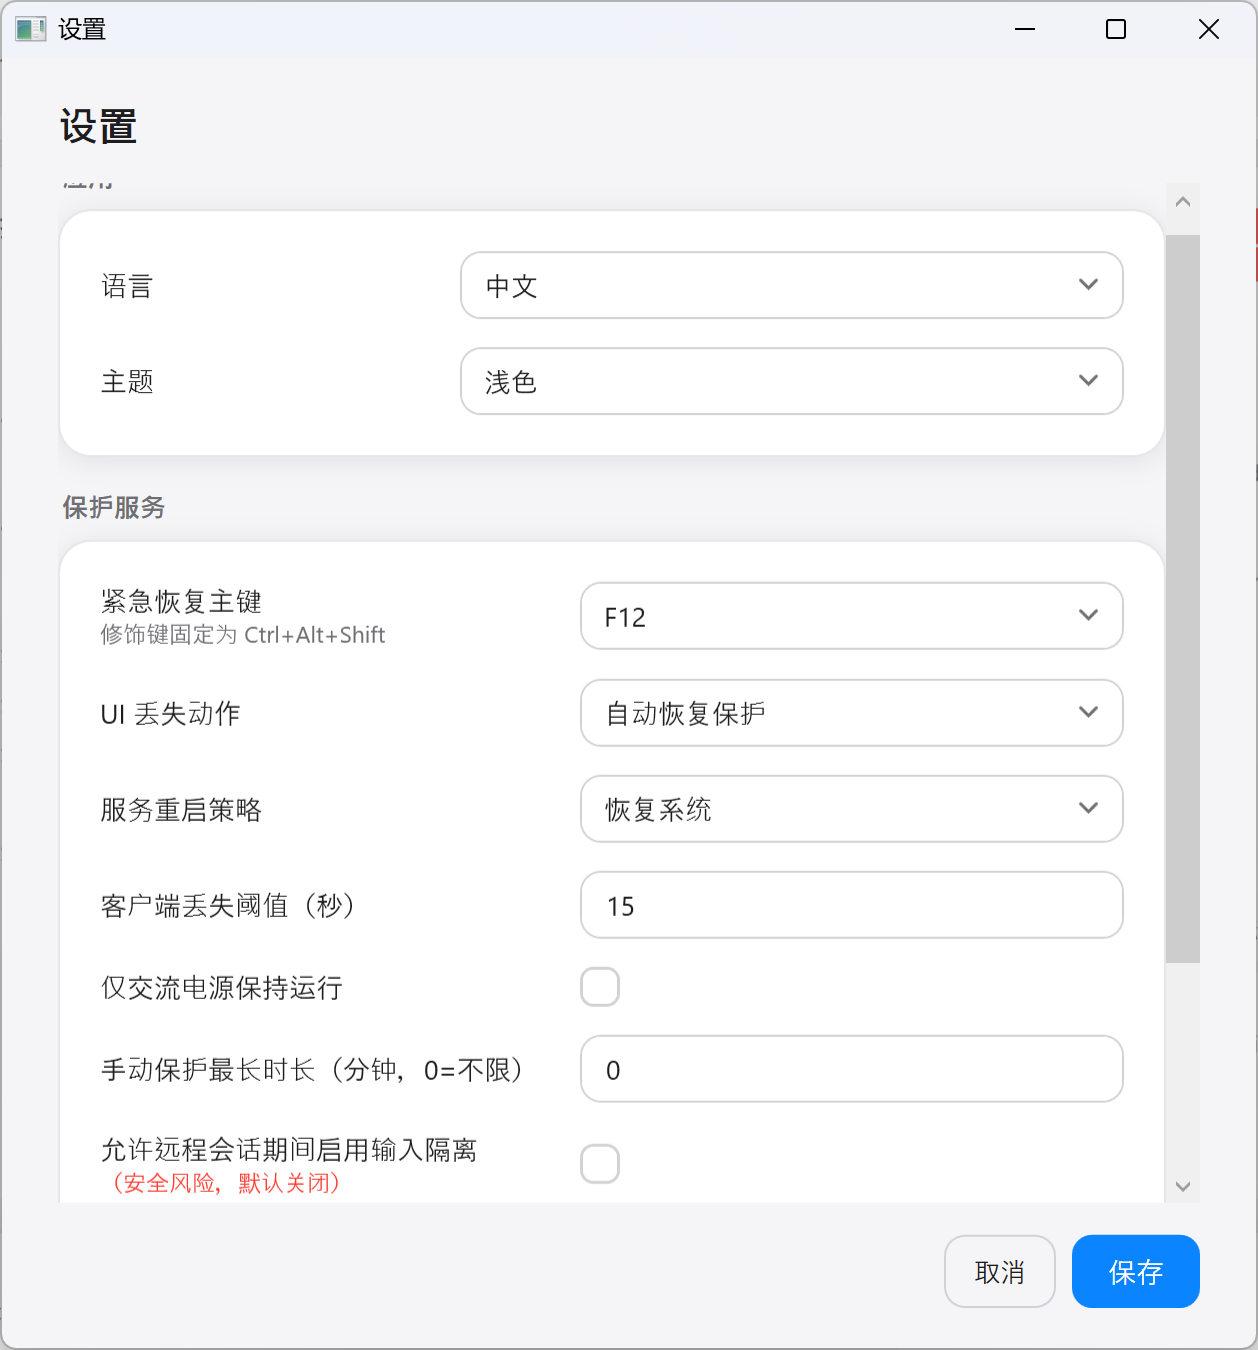
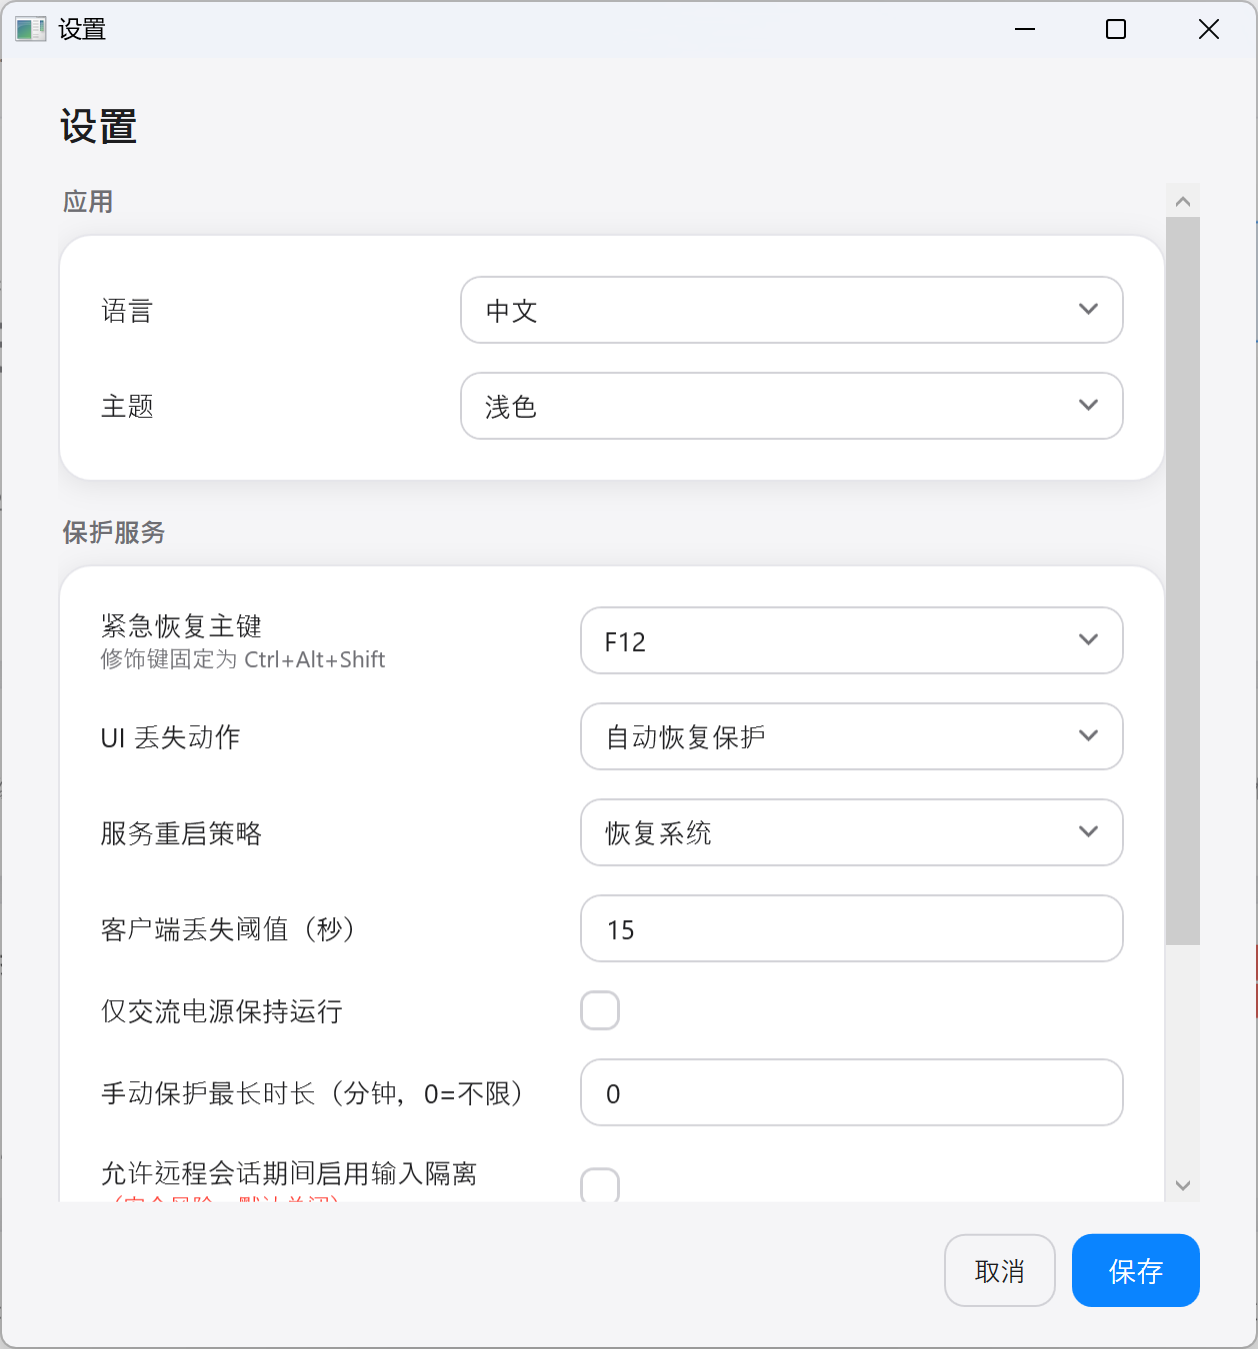
docs: 用 v0.1.5 重新截图，更新演示 GIF 与社交预览图

diff --git a/scripts/make-demo-gif.py b/scripts/make-demo-gif.py
@@ -35,9 +35,9 @@ ACCENT = (75, 224, 160)
 
 SLIDES = [
     ("main-window.png", "主界面 · 一键启用"),
-    ("main-window-detail.png", "运行详情 · 七步自检"),
+    ("main-window-detail.png", "待机模式 · PS5 式熄屏在线"),
     ("settings.png", "设置 · 语言 / 主题 / 服务参数"),
-    ("streaming-env.png", "串流环境 · 依赖自检"),
+    ("streaming-env.png", "串流环境 · 离线依赖自检"),
 ]
 
 

diff --git a/README.md b/README.md
@@ -72,9 +72,9 @@ Download: [v0.1.5 offline](https://github.com/GH17812/Guardian/releases/download
 
 ## 应用截图
 
-| 主界面 | 运行详情 |
+| 主界面 | 待机模式 |
 |---|---|
-| ![主界面](docs/images/main-window.png) | ![运行详情](docs/images/main-window-detail.png) |
+| ![主界面](docs/images/main-window.png) | ![待机模式](docs/images/main-window-detail.png) |
 
 | 设置 | 串流环境自检 |
 |---|---|
